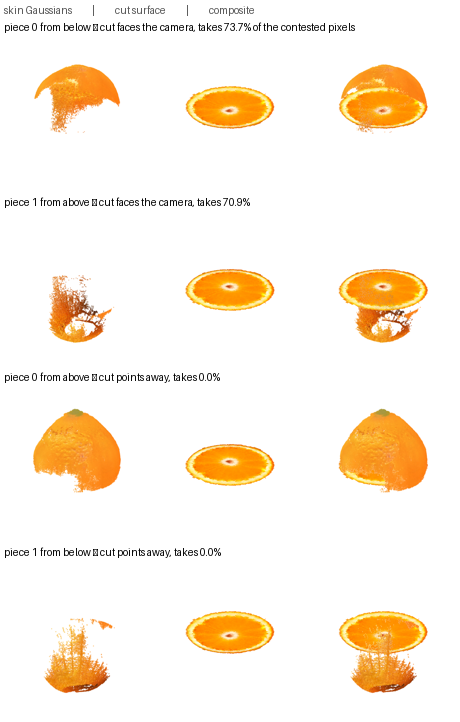
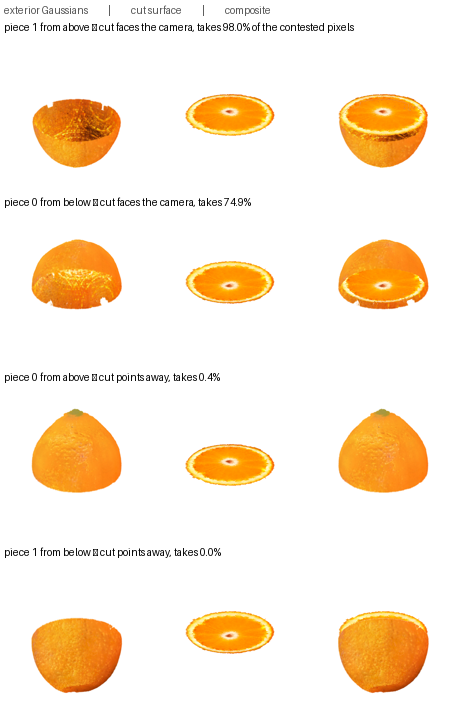
the exterior was defined wrong, and the compositing figure was showing it
The exterior was taken as cell_level != 0, which looks like the skin and is not it. On the orange
the refined cells run from r/R 0.808 to 1.000 while the coarse cells reach 0.936: the shell is
thick and uneven, and much of the outer surface is coarse cells that the level test discards. What
survives is the thick lower part of a shell -- 77% of the refined cells lie in the bottom 40% of
the object -- so a cut through the centroid gave one piece five times as much "exterior" as the
other, and three of the four views had almost nothing to draw. The figure was not misrendering
that; it was showing it.

A boundary cell is one with an empty face neighbour, at whatever level, which is the definition
the exterior conversion already used two sections up. It has to be taken from the solid rather
than the raw quantisation -- the stored occupancy is a sponge, so nearly every cell in it touches
a hole and the first attempt called 83% of the object its boundary.

Corrected, the exterior is 187,260 primitives covering 20% to 24% of every frame instead of 7% to
20% of some, the cut takes 98.0% and 74.9% of the contested pixels when it faces the camera
against 0.4% and 0.0% when it does not, and the see-through is down to the silhouette, 2.4% of the
frame at worst.

diff --git a/index.html b/index.html
@@ -334,30 +334,31 @@ differ by \(1/\cos\) of the angle off the axis, so the wrong one leaves an error
 the corners. By radial slope it is view \(z\): &minus;0.058 against +0.060.</p>
 
 <figure>
-  <img src="assets/compositing.png" alt="Four compositing configurations: skin, cut surface, composite">
-  <figcaption>All four configurations, each row skin Gaussians &#124; cut surface &#124; composite.
-  Whether a piece's cut face is visible is decided by the sign of the plane at the camera against
-  the side the piece's material is on, and it agrees with the composite every time: the cut takes
-  73.7% and 70.9% of the contested pixels when it faces the camera and 0.0% and 0.0% when it does
-  not, with the sign of the depth margin predicting the outcome in all four. The skin column is
-  sparse in three of the four rows and that is the lattice, not the render &mdash; see
-  below.</figcaption>
+  <img src="assets/compositing.png" alt="Four compositing configurations: exterior, cut surface, composite">
+  <figcaption>All four configurations, each row exterior Gaussians &#124; cut surface &#124;
+  composite. Whether a piece's cut face is visible is decided by the sign of the plane at the
+  camera against the side the piece's material is on, and it agrees with the composite every time:
+  the cut takes 98.0% and 74.9% of the contested pixels when it faces the camera and 0.4% and 0.0%
+  when it does not, with the sign of the depth margin predicting the outcome in all four. Rows
+  three and four are the ones worth checking &mdash; the exposed face is there in the middle
+  column and correctly absent from the composite.</figcaption>
 </figure>
 
-<div class="note"><strong>The skin is not a uniform shell on this lattice.</strong> The refined
-cells that make up the exterior are concentrated low on the object: 77% of the orange's 118,141
-of them lie in the bottom 40% of its vertical extent, and their median height is 0.20 against the
-coarse cells' 0.70. The piece labelling is not what is uneven &mdash; it agrees with which side of
-the plane each primitive is on exactly, 98,020 against 20,121 by label and the same by geometry,
-including all 80,342 that fall outside the coarse grid and take their nearest leaf. So a cut
-through the solid's centroid really does put five times as much skin on one side, and three of the
-four configurations really do have little exterior to draw.</div>
+<div class="note"><strong>The exterior is the boundary of the occupancy, not the refined cells.</strong>
+Taking it as <code>cell_level &ne; 0</code> looks right and is not: on the orange the refined
+cells run from \(r/R\) 0.808 to 1.000 while the coarse cells reach 0.936, so the shell is thick
+and uneven and much of the outer surface is made of coarse cells the level test throws away. What
+that leaves is the thick lower part of a shell &mdash; 77% of the refined cells sit in the bottom
+40% of the object &mdash; so a cut through the centroid handed one piece five times as much
+"exterior" as the other and three views of four had almost nothing to draw. A boundary cell is one
+with an empty face neighbour, which is the definition the exterior conversion already uses and
+does not care what level a cell is: 187,260 primitives, 20% to 24% of each frame, and the same
+answer from every direction.</div>
 
-<div class="note">The honest limitation of this half-and-half arrangement, and the reason the
-exterior was converted: the skin alone covers 7% to 20% of the frame at alpha above a half, so
-where it is transparent the cut face shows through from the side it should be hidden on. That is a
-semi-transparent exterior, not the depth test &mdash; where both are present the test is never
-wrong.</div>
+<div class="note">The remaining limitation of the half-and-half arrangement, and the reason the
+exterior is converted at all: a Gaussian shell is not opaque, so at the silhouette &mdash; 2.4% of
+the frame in the worst of the four &mdash; the cut face shows through where the exterior does not
+cover. Where both are present the depth test is never wrong.</div>
 
 <h2>Physics keeps what the lattice had</h2>
 
